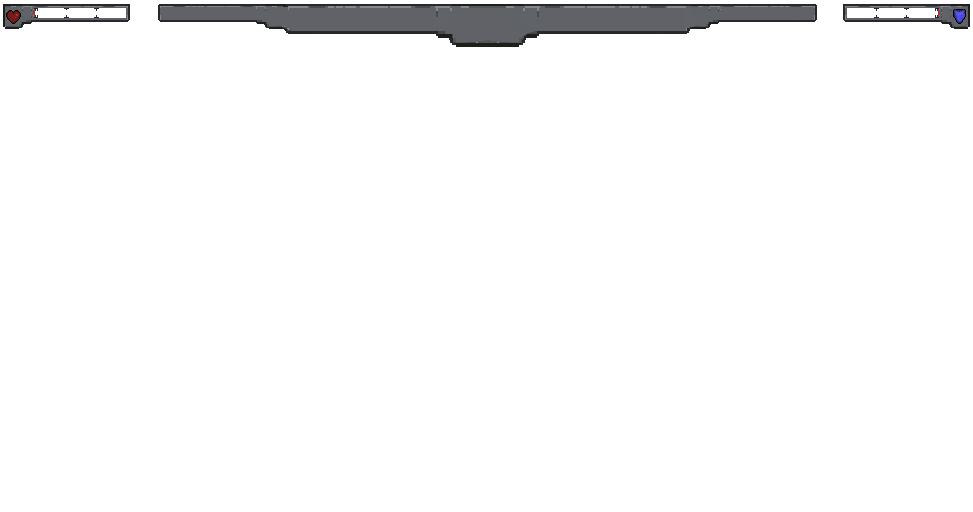
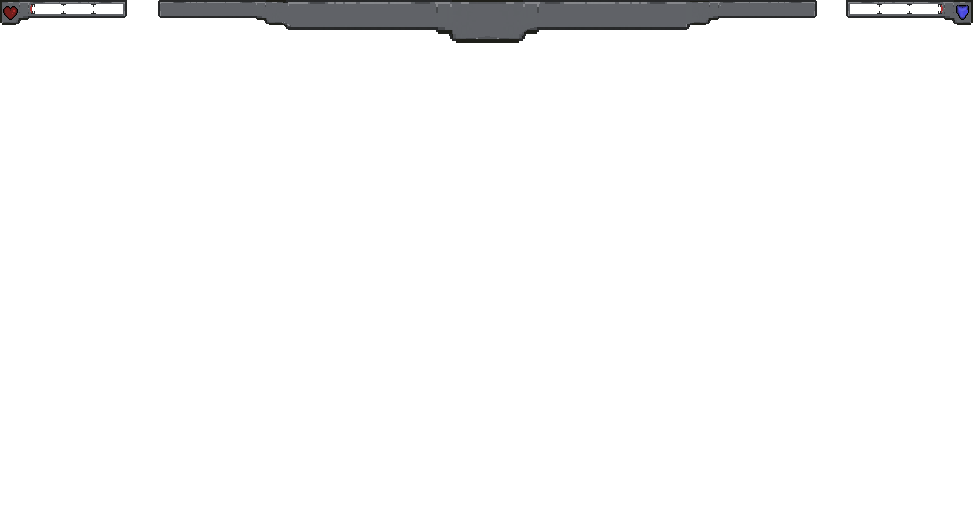
relocated healthbar to fit with hud

Changed region(s): [[0.0, 0.0, 0.8325, 0.0938], [0.8633, 0.0, 1.0, 0.0625]]

diff --git a/src/entities/Tank.js b/src/entities/Tank.js
@@ -20,12 +20,7 @@ export default class Tank extends Phaser.Physics.Arcade.Sprite {
     this.hasBeenHit = false;
     this.health = 30;
     this.isAlive = true;
-    // this.healthBar = new HealthBar( 
-    //   this.scene, 
-    //   this.scene.config.leftTopCorner.x + 33,
-    //   this.scene.config.leftTopCorner.y + 5, 
-    //   this.health
-    //   );
+  
     
     this.setCollideWorldBounds(true);
     
@@ -63,6 +58,7 @@ export default class Tank extends Phaser.Physics.Arcade.Sprite {
       pnum: this.pNum,
     }
     this.socket.emit('playerDeath', data)
+    this.setImmovable(true);
   }
 
 }

diff --git a/src/hud/HealthBar.js b/src/hud/HealthBar.js
@@ -35,7 +35,7 @@ export default class HealthBar {
      this.hpWidth = Math.floor(this.hpValue * this.pixelPerHp);
     console.log("THis is the width",this.hpWidth);
     this.healthBar.fillStyle(0x00FF00, 1);
-    this.healthBar.fillRect(x+margin, y+margin, this.hpWidth, height)
+    this.healthBar.fillRect(x, y, this.hpWidth, height)
 
   }
   showHealthBar(){
